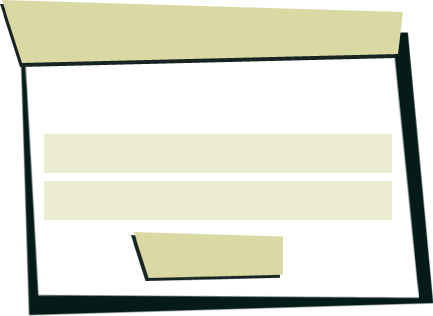
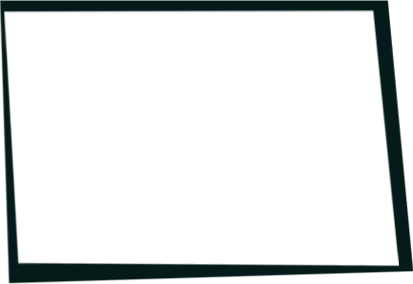
newsletter

diff --git a/css/style.css b/css/style.css
@@ -63,12 +63,12 @@ a {
 
 .box_container {
     width: 460px;
+    padding-left: 20px;
     float: left;
 }
 
 /** about **/
 .about {
-    margin-left: 44px;
     width: 400px;
 }
 
@@ -97,7 +97,6 @@ a {
 /** location **/
 .location {
     margin-top: 110px;
-    margin-left: 44px;
     width: 400px;
 }
 
@@ -195,5 +194,67 @@ a {
     text-align: justify;
     border-bottom: 1px solid black;
     padding: 10px 0px;
-    
+}
+
+/** newsletter **/
+.newsletter {
+    margin-top: -160px;
+    background: url('../img/e_newsletter.png') no-repeat 20px 35px;
+    width: 433px;
+    height: 319px;
+}
+
+.newsletter .header {
+    width: 403px;
+    height: 52px;
+    background: url('../img/h_about.png') no-repeat;
+    padding-top: 20px;
+    padding-left: 30px;
+}
+
+.newsletter .body {
+    margin-left: 42px;
+    width: 340px;
+    text-align: justify;
+}
+
+.newsletter .form {
+    margin-left: 42px;
+    width: 340px;
+    text-align: center;
+}
+
+.newsletter .form td {
+    padding-top: 5px;
+}
+
+.newsletter .form label,
+.newsletter .form input[type=text] {
+    line-height: 18px;
+    background-color: #ececd1;
+    padding: 12px 3px;
+}
+
+.newsletter .form label {
+    display: block;
+    font-size: 16px;
+    color: #d01e32;
+    width: 60px;
+}
+
+.newsletter .form input[type=text] {
+    font-size: 14px;
+    border: 0px;
+    width: 268px; 
+}
+
+.newsletter .form input[type=button] {
+    font-family: "RiotSquad", Impact, fantasy;
+    font-size: 30px;
+    background: url('../img/e_button.png') no-repeat;
+    width: 152px;
+    height: 49px;
+    border: none;
+    cursor: pointer;
+    margin-top: 5px;
 }

diff --git a/index.html b/index.html
@@ -80,6 +80,34 @@
             </div>
         </div>
     </div>
+
+    <div class="newsletter box">
+        <div class="header">Newsletter</div>
+        <div class="body">
+            Fap williamsburg fanny pack, retro tattooed chambray sriracha godard <span class="red">typewriter</span> bushwick mustache pork belly photo booth.
+        </div>
+        <table class="form">
+            <tr>
+                <td>
+                    <label for="newsletter_name">Name:</label>
+                </td><td>
+                    <input type="text" id="newsletter_name" name="newsletter_name" />
+                </td>
+            </tr>
+            <tr>
+                <td>
+                    <label for="newsletter_email">E-mail:</label>
+                </td><td>
+                    <input type="text" id="newsletter_email" name="newsletter_email" />
+                </td>
+            </tr>
+            <tr>
+                <td colspan="2">
+                    <input type="button" value="Submit!" />
+                </td>
+            </tr>
+        </table>
+    </div>
 </div><!-- box_container -->
 
 </body>
